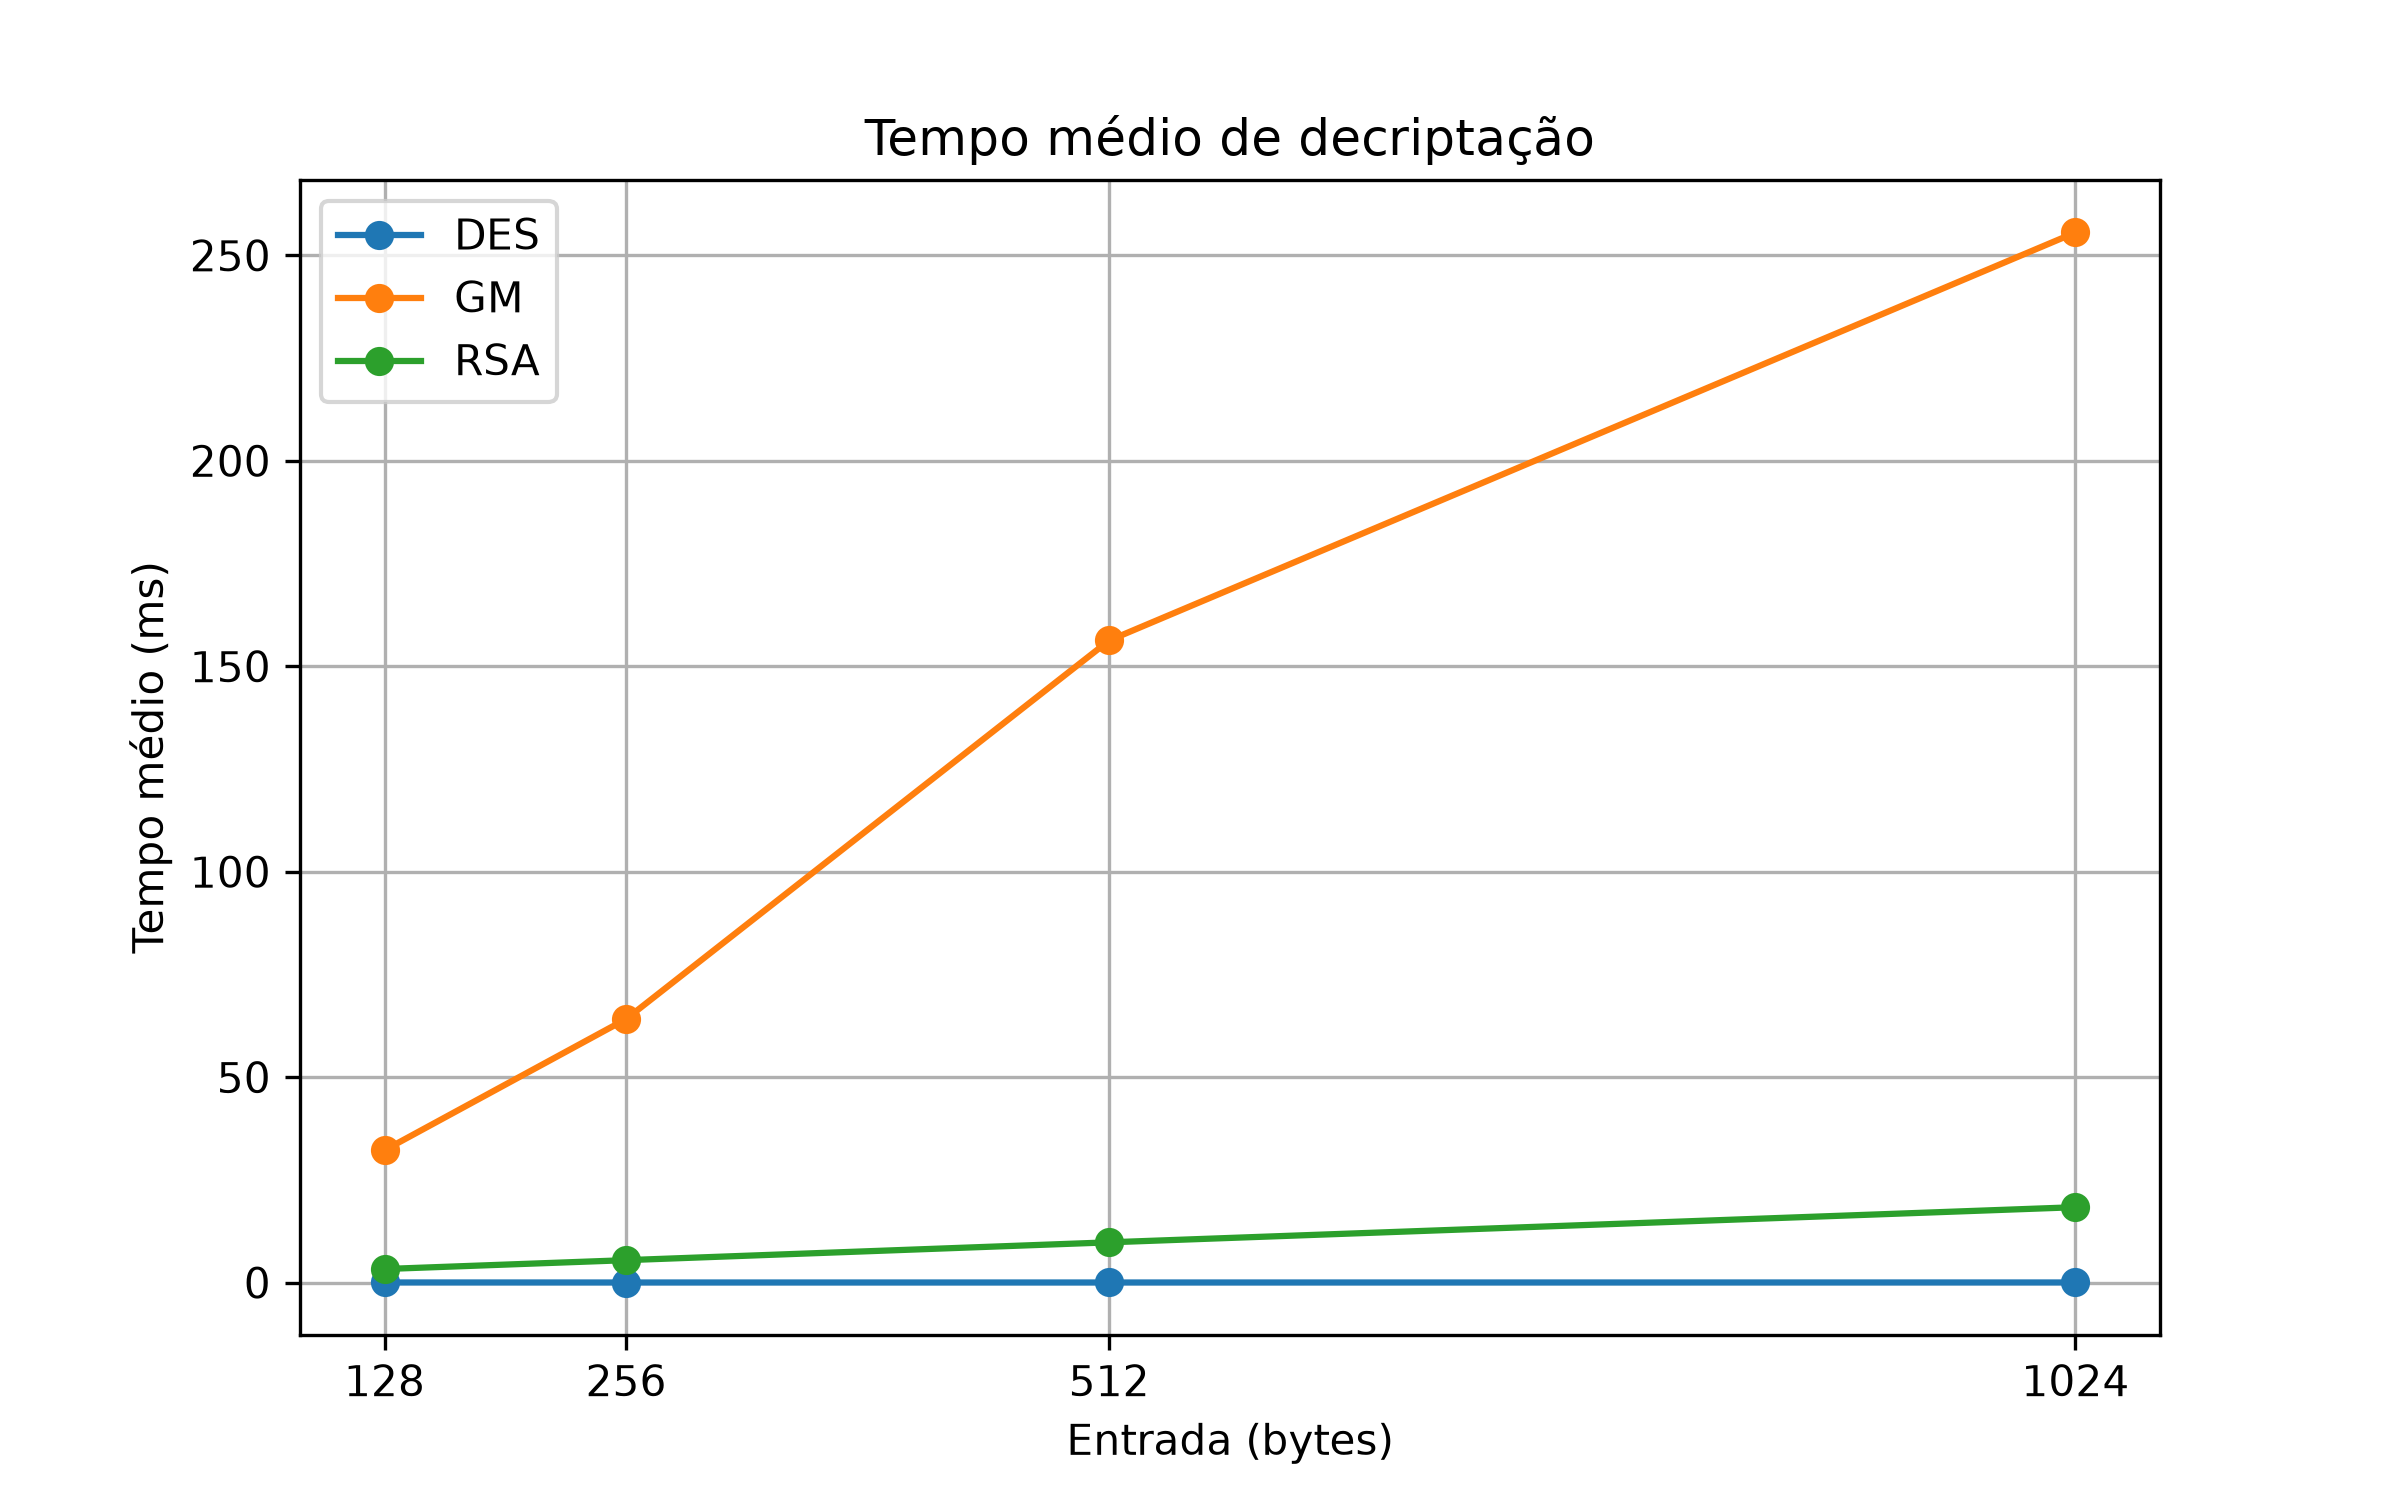
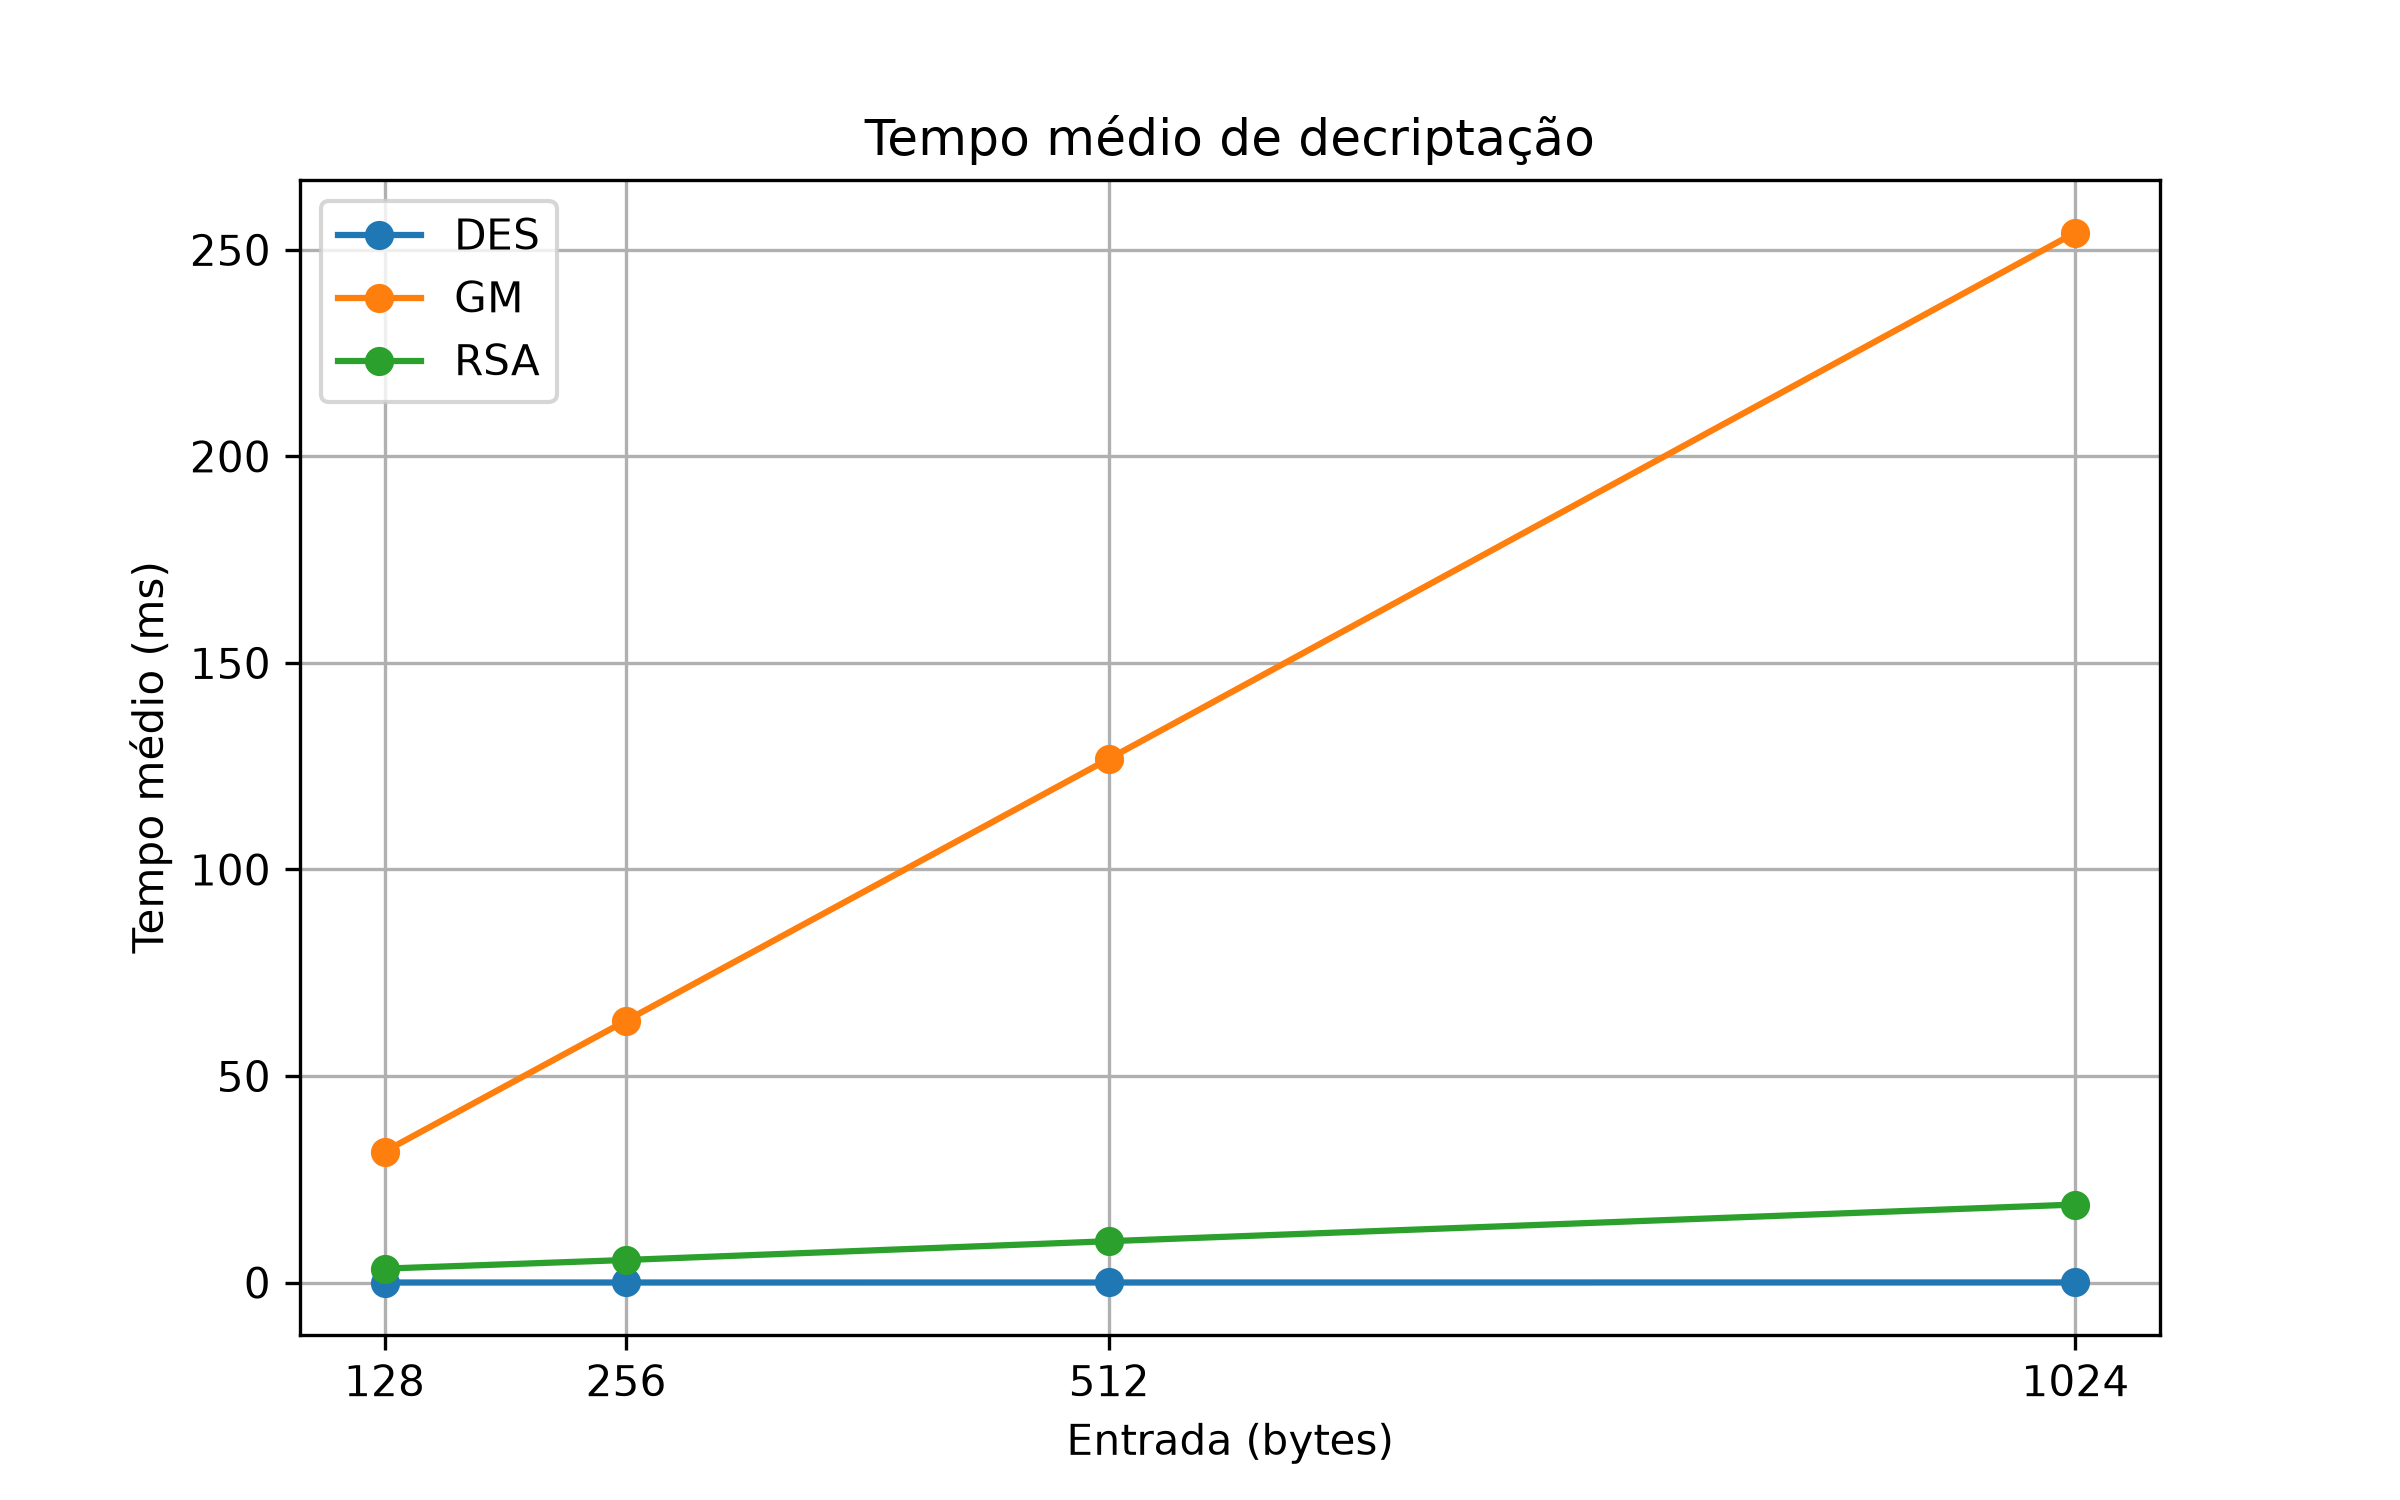
finalizando os graficos

diff --git a/src/gerar_graficos/tam_texto_cifrado.py b/src/gerar_graficos/tam_texto_cifrado.py
@@ -1,0 +1,25 @@
+import matplotlib.pyplot as mp
+
+def grafico_tamanho_saida(df):
+    mp.figure(figsize=(8, 5))
+
+    for algoritmo in df["Algoritmo"].unique():
+        dados = df[df["Algoritmo"] == algoritmo]
+
+        mp.plot(
+            dados["Entrada(bytes)"],
+            dados["Texto cifrado(bytes)"],
+            marker="o",
+            label=algoritmo
+        )
+
+    mp.xticks(sorted(df["Entrada(bytes)"].unique()))
+
+    mp.xlabel("Entrada (bytes)")
+    mp.ylabel("Tamanho (bytes)")
+    mp.title("Tamanho do texto cifrado")
+    mp.grid(True)
+    mp.legend()
+
+    mp.savefig("grafico_tam_texto_cifrado.png", dpi=300)
+    mp.close()

diff --git a/src/cli.py b/src/cli.py
@@ -9,6 +9,7 @@ from .algoritmos.rsa import Rsa
 from .algoritmos.gm import Gm
 from .gerar_graficos.encriptacao import grafico_encriptacao
 from .gerar_graficos.decriptacao import grafico_decriptacao
+from .gerar_graficos.tam_texto_cifrado import grafico_tamanho_saida
 
 def main(argv: list[str] | None = None):
     parser = argparse.ArgumentParser()
@@ -52,6 +53,7 @@ def main(argv: list[str] | None = None):
 
     grafico_encriptacao(df)
     grafico_decriptacao(df)
+    grafico_tamanho_saida(df)
 
 def __salvar_resultado(resultados):
     with open("benchmark.csv", "w", newline="", encoding="utf-8") as arquivo:
